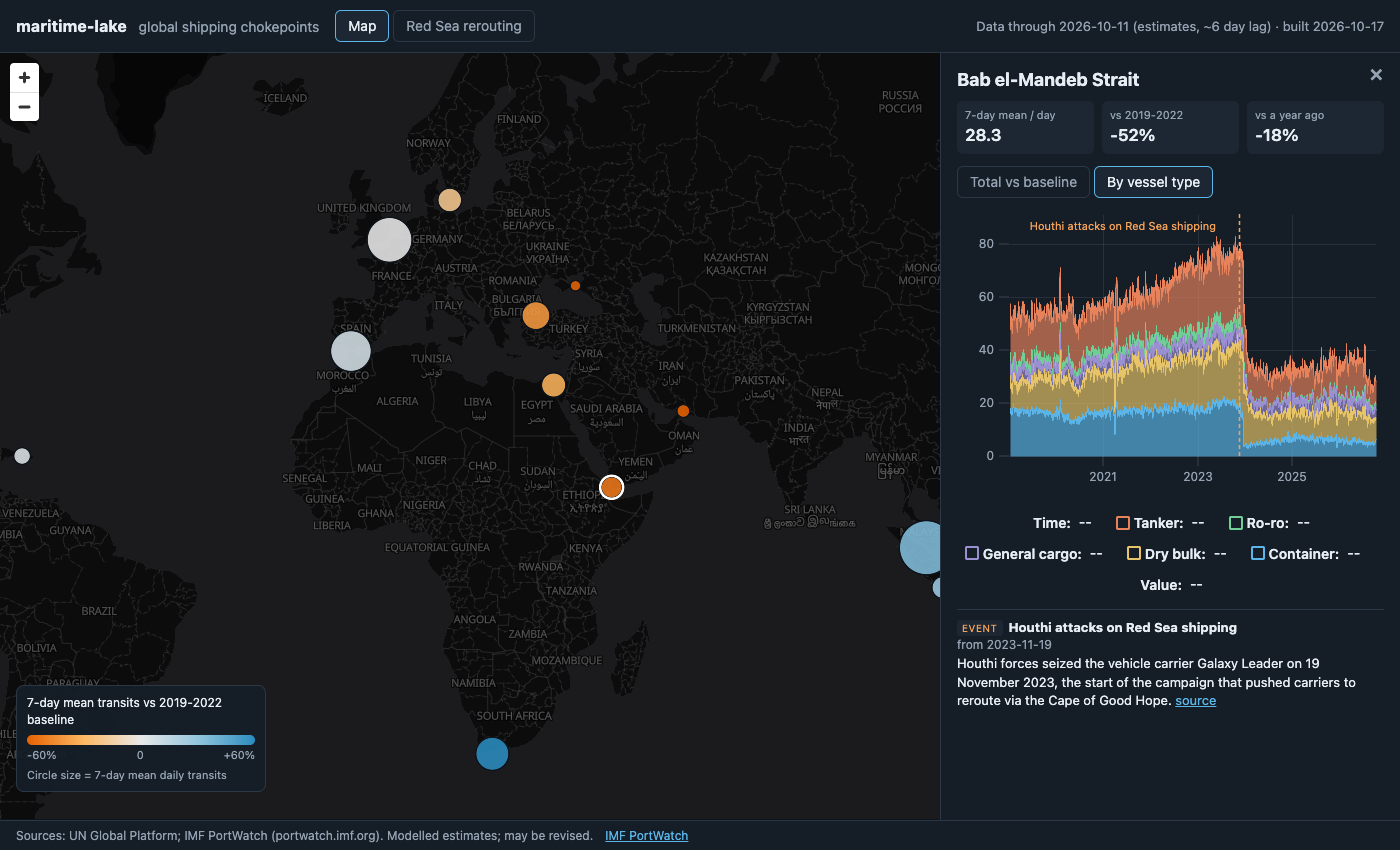
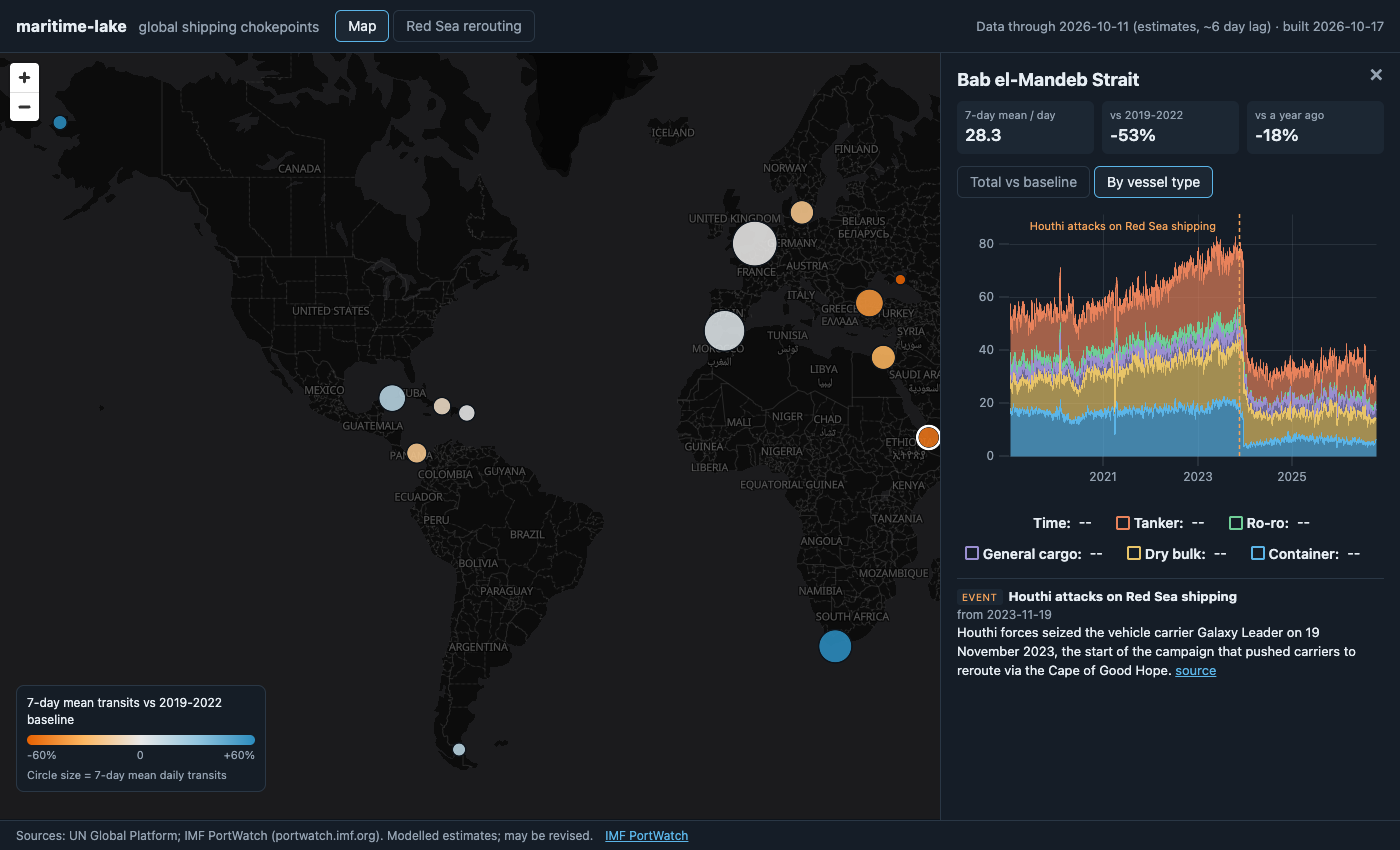
fix: smooth the seasonal baseline, frame all chokepoints, tidy chart legends
- gold baseline_ma7/lo/hi: centred 15-day calendar window (wraps Dec/Jan),
  so low-traffic chokepoints no longer jitter against their baseline
- Red Sea story reads a trailing 4-week average of the baseline index
- desktop map fits every chokepoint (Panama was off-screen); phone view
  re-centred and the legend moved off the zoom buttons
- hide band-only series from uPlot legends
- refresh screenshots, add mobile map

diff --git a/web/src/main.ts b/web/src/main.ts
@@ -5,7 +5,7 @@ import {
   fmtNum, fmtPct, loadEvents, loadGeo, loadMeta, loadSeries,
   type ChokepointProps, type EventItem,
 } from "./data";
-import { indexChart, totalChart, typeChart, type ChartHandle, type IndexLine } from "./charts";
+import { baselineIndex, indexChart, totalChart, typeChart, type ChartHandle, type IndexLine } from "./charts";
 
 const $ = <T extends HTMLElement>(id: string) => document.getElementById(id) as T;
 
@@ -71,19 +71,15 @@ async function renderStory() {
   const [events, ...series] = await Promise.all([loadEvents(), ...STORY.lines.map((l) => loadSeries(l.id))]);
   const ev = events.find((e) => e.id === STORY.event);
   const lines: IndexLine[] = STORY.lines.map((l, i) => ({ name: l.name, color: l.color, series: series[i] }));
-  const last = (i: number) => {
-    const s = series[i];
-    const k = s.ma7_total.length - 1;
-    const v = s.ma7_total[k], b = s.baseline_ma7[k];
-    return v != null && b ? (100 * v) / b : null;
-  };
-  const cape = lines[2].series;
-  const idx = cape.ma7_total.map((v, i) => (v != null && cape.baseline_ma7[i] ? (100 * v) / (cape.baseline_ma7[i] as number) : -1));
-  const peak = Math.max(...idx);
-  const peakDate = cape.dates[idx.indexOf(peak)];
+  const idx = series.map((s) => baselineIndex(s));
+  const last = (i: number) => idx[i][idx[i].length - 1];
+  const cape = idx[2];
+  const peak = Math.max(...cape.map((v) => v ?? -1));
+  const peakDate = series[2].dates[cape.indexOf(peak)];
+  const latest = series[2].dates[series[2].dates.length - 1];
   $("story-lede").textContent =
     `Since Houthi attacks on shipping began in November 2023, transits through the Bab el-Mandeb Strait and the Suez Canal fell well below their 2019-2022 norm while the Cape of Good Hope route rose. ` +
-    `On the latest data day (${cape.dates[cape.dates.length - 1]}) the 7-day mean is at ${fmtNum(last(0))}% of baseline at Bab el-Mandeb, ${fmtNum(last(1))}% at Suez and ${fmtNum(last(2))}% at the Cape of Good Hope (peak ${fmtNum(peak)}% on ${peakDate}).`;
+    `Over the four weeks to the latest data day (${latest}), traffic ran at ${fmtNum(last(0))}% of baseline at Bab el-Mandeb, ${fmtNum(last(1))}% at Suez and ${fmtNum(last(2))}% at the Cape of Good Hope (4-week peak ${fmtNum(peak)}%, reached ${peakDate}).`;
   storyChart?.destroy();
   storyChart = indexChart($("story-chart"), lines, ev ? [ev] : []);
   $("story-events").innerHTML = ev ? eventLi(ev) : "";
@@ -114,8 +110,8 @@ async function init() {
   map = new maplibregl.Map({
     container: "map",
     style: "https://tiles.openfreemap.org/styles/dark",
-    center: [60, 22],
-    zoom: window.innerWidth < 720 ? 1.2 : 1.9,
+    center: [30, 15],
+    zoom: window.innerWidth < 720 ? 0 : 1.5,
     attributionControl: { compact: true },
   });
   map.addControl(new maplibregl.NavigationControl({ showCompass: false }), "top-left");
@@ -124,6 +120,15 @@ async function init() {
 
   const [meta, geo] = await Promise.all([loadMeta(), loadGeo()]);
   geoProps = new Map(geo.features.map((f) => [f.properties.portid, f.properties]));
+  // Desktop: frame every chokepoint. Phones are narrower than the world at zoom 0,
+  // so centre on a view that still holds the Panama Canal and East Asia.
+  if (window.innerWidth < 720) {
+    map.jumpTo({ center: [30, 15], zoom: 0 });
+  } else {
+    const bounds = new maplibregl.LngLatBounds();
+    for (const f of geo.features) bounds.extend(f.geometry.coordinates as [number, number]);
+    if (!bounds.isEmpty()) map.fitBounds(bounds, { padding: 60, maxZoom: 3, duration: 0 });
+  }
   $("fresh").textContent = `Data through ${meta.data_max_date} (estimates, ~6 day lag) · built ${meta.built_at.slice(0, 10)}`;
   $("attribution").textContent = meta.attribution + " Modelled estimates; may be revised.";
 

diff --git a/web/src/charts.ts b/web/src/charts.ts
@@ -85,10 +85,13 @@ export interface ChartHandle {
   destroy(): void;
 }
 
-function mount(el: HTMLElement, opts: (w: number) => uPlot.Options, data: uPlot.AlignedData): ChartHandle {
+/** hideInLegend: series indexes that only exist to draw a band and should not get a legend row. */
+function mount(el: HTMLElement, opts: (w: number) => uPlot.Options, data: uPlot.AlignedData, hideInLegend: number[] = []): ChartHandle {
   el.innerHTML = "";
   const w = Math.max(el.clientWidth, 280);
   const plot = new uPlot(opts(w), data, el);
+  const rows = plot.root.querySelectorAll<HTMLElement>(".u-legend .u-series");
+  for (const i of hideInLegend) if (rows[i]) rows[i].style.display = "none";
   const ro = new ResizeObserver(() => plot.setSize({ width: Math.max(el.clientWidth, 280), height: plot.height }));
   ro.observe(el);
   return {
@@ -123,6 +126,7 @@ export function totalChart(el: HTMLElement, s: Series, events: EventItem[]): Cha
       plugins: [eventsPlugin(events)],
     }),
     data,
+    [3, 4],
   );
 }
 
@@ -171,6 +175,7 @@ export function typeChart(el: HTMLElement, s: Series, events: EventItem[]): Char
       plugins: [eventsPlugin(events)],
     }),
     data,
+    [series.length - 1],
   );
 }
 
@@ -180,16 +185,35 @@ export interface IndexLine {
   series: Series;
 }
 
-/** Red Sea story: 7-day mean as % of the 2019-2022 baseline, several chokepoints on one chart. */
+export const STORY_WINDOW_DAYS = 28;
+
+/**
+ * Daily transits as % of the 2019-2022 baseline, averaged over a trailing window
+ * (NULL until the window is complete). 7-day means at low-traffic chokepoints are
+ * noisy; the story is about multi-month shifts, so it reads a 4-week average.
+ */
+export function baselineIndex(s: Series, windowDays = STORY_WINDOW_DAYS): (number | null)[] {
+  const daily = s.ma7_total.map((v, i) => {
+    const b = s.baseline_ma7[i];
+    return v == null || b == null || b <= 0 ? null : (100 * v) / b;
+  });
+  return daily.map((_, i) => {
+    if (i < windowDays - 1) return null;
+    let sum = 0;
+    for (let k = i - windowDays + 1; k <= i; k++) {
+      const v = daily[k];
+      if (v == null) return null;
+      sum += v;
+    }
+    return sum / windowDays;
+  });
+}
+
+/** Red Sea story: baseline index (see baselineIndex), several chokepoints on one chart. */
 export function indexChart(el: HTMLElement, lines: IndexLine[], events: EventItem[]): ChartHandle {
   const base = lines[0].series;
   const x = base.dates.map(toSec);
-  const cols = lines.map((l) =>
-    l.series.ma7_total.map((v, i) => {
-      const b = l.series.baseline_ma7[i];
-      return v == null || b == null || b <= 0 ? null : (100 * v) / b;
-    }),
-  );
+  const cols = lines.map((l) => baselineIndex(l.series));
   const data = [x, ...cols] as uPlot.AlignedData;
   return mount(
     el,

diff --git a/web/index.html b/web/index.html
@@ -47,7 +47,7 @@
           <h2>Red Sea rerouting</h2>
           <p id="story-lede" class="lede"></p>
           <div id="story-chart" class="chart big"></div>
-          <p class="fine">Index: 7-day mean daily transits divided by the 2019-2022 mean for the same calendar day (100 = baseline). Estimates derived from AIS data; they can be revised.</p>
+          <p class="fine">Index: 7-day mean daily transits divided by the 2019-2022 mean around the same calendar day (100 = baseline), averaged over the trailing four weeks. Estimates derived from AIS data; they can be revised.</p>
           <ul id="story-events" class="events"></ul>
         </div>
       </section>

diff --git a/web/src/style.css b/web/src/style.css
@@ -93,5 +93,5 @@ a { color: var(--accent); }
     top: auto; left: 0; right: 0; width: 100%; height: 62%;
     border-left: 0; border-top: 1px solid var(--line); border-radius: 14px 14px 0 0;
   }
-  .legend { width: 200px; bottom: auto; top: 8px; }
+  .legend { width: 200px; bottom: auto; top: 8px; left: auto; right: var(--gutter); }
 }

diff --git a/tests/test_models.py b/tests/test_models.py
@@ -80,31 +80,48 @@ def test_yoy(gold):
     assert row(gold, dt.date(2024, 2, 29))["yoy_pct"] == pytest.approx(expect_leap)
 
 
-def test_baseline_is_mean_of_2019_2022_same_day(gold):
+def raw_baseline(month: int, day: int):
+    """Per-calendar-day (mean, min, max) of ma7 over 2019-2022, skipping incomplete windows."""
+    vals = [ma7(dt.date(y, month, day)) for y in range(2019, 2023) if dt.date(y, month, day) >= dt.date(2019, 1, 7)]
+    return sum(vals) / len(vals), min(vals), max(vals)
+
+
+def smoothed_baseline(d: dt.date):
+    """Centred 15-day mean of raw_baseline over a non-leap calendar, wrapping Dec/Jan."""
+    if d.month == 2 and d.day == 29:
+        d = d.replace(day=28)
+    centre = dt.date(2001, d.month, d.day)
+    days = [centre + dt.timedelta(days=k) for k in range(-7, 8)]
+    days = [x.replace(year=2001) for x in days]  # wrap into the same non-leap year
+    raws = [raw_baseline(x.month, x.day) for x in days]
+    return tuple(sum(r[i] for r in raws) / len(raws) for i in range(3))
+
+
+def test_baseline_is_smoothed_mean_of_2019_2022(gold):
     d = dt.date(2024, 3, 1)
-    years = [dt.date(y, 3, 1) for y in range(2019, 2023)]
-    expect = sum(ma7(x) for x in years) / 4
+    mean, lo, hi = smoothed_baseline(d)
     r = row(gold, d)
-    assert r["baseline_ma7"] == pytest.approx(expect)
-    assert r["baseline_lo"] == pytest.approx(min(ma7(x) for x in years))
-    assert r["baseline_hi"] == pytest.approx(max(ma7(x) for x in years))
-    assert r["vs_baseline_pct"] == pytest.approx(100 * (ma7(d) / expect - 1))
+    assert r["baseline_ma7"] == pytest.approx(mean)
+    assert r["baseline_lo"] == pytest.approx(lo)
+    assert r["baseline_hi"] == pytest.approx(hi)
+    assert r["vs_baseline_pct"] == pytest.approx(100 * (ma7(d) / mean - 1))
+    # the window really averages neighbours: differs from the single-day mean
+    assert r["baseline_ma7"] != pytest.approx(raw_baseline(3, 1)[0], abs=1e-9)
 
 
 def test_feb29_maps_to_feb28_and_does_not_pollute_baseline(gold):
-    feb28_years = [dt.date(y, 2, 28) for y in range(2019, 2023)]
-    expect = sum(ma7(x) for x in feb28_years) / 4  # 2020-02-29 must not be averaged in
+    expect = smoothed_baseline(dt.date(2023, 2, 28))[0]  # 2020-02-29 is never a baseline input
     assert row(gold, dt.date(2024, 2, 28))["baseline_ma7"] == pytest.approx(expect)
     assert row(gold, dt.date(2024, 2, 29))["baseline_ma7"] == pytest.approx(expect)
-    # and the Feb 29 row itself exists in the baseline years (2020) but is not a baseline key
     assert row(gold, dt.date(2020, 2, 29))["baseline_ma7"] == pytest.approx(expect)
 
 
-def test_baseline_early_january_excludes_incomplete_ma7(gold):
-    # Jan 1-6 2019 have NULL ma7, so their baseline averages only 2020-2022
+def test_baseline_wraps_year_end_and_skips_incomplete_ma7(gold):
+    # Jan 3 window spans Dec 27 - Jan 10; Jan 1-6 2019 have NULL ma7 and are left out
     d = dt.date(2024, 1, 3)
-    expect = sum(ma7(dt.date(y, 1, 3)) for y in range(2020, 2023)) / 3
-    assert row(gold, d)["baseline_ma7"] == pytest.approx(expect)
+    assert row(gold, d)["baseline_ma7"] == pytest.approx(smoothed_baseline(d)[0])
+    d = dt.date(2023, 12, 30)
+    assert row(gold, d)["baseline_ma7"] == pytest.approx(smoothed_baseline(d)[0])
 
 
 def test_latest_one_row_per_chokepoint(gold):

diff --git a/DESIGN.md b/DESIGN.md
@@ -70,7 +70,8 @@ SQL models are readable on GitHub. Serving and realtime stay on Workers.
 ### Gold models
 - `chokepoint_daily`: silver + `ma7_total` (7-day trailing mean of n_total), `ma7_capacity`,
   `yoy_pct` (ma7_total vs same calendar date previous year), `baseline_ma7` (mean of ma7_total for the
-  same day-of-year over 2019–2022; Feb 29 maps to Feb 28), `vs_baseline_pct`.
+  same day-of-year over 2019–2022, smoothed with a centred 15-day calendar window that wraps Dec/Jan;
+  Feb 29 maps to Feb 28), `vs_baseline_pct`.
 - `chokepoint_latest`: one row per chokepoint at the latest date with the above + lat/lon.
 - Output for the web: `gold/chokepoints.geojson` (latest metrics as properties),
   `gold/series/<portid>.json` (date, n_total, n_by_type, ma7_total, baseline_ma7, capacity),
